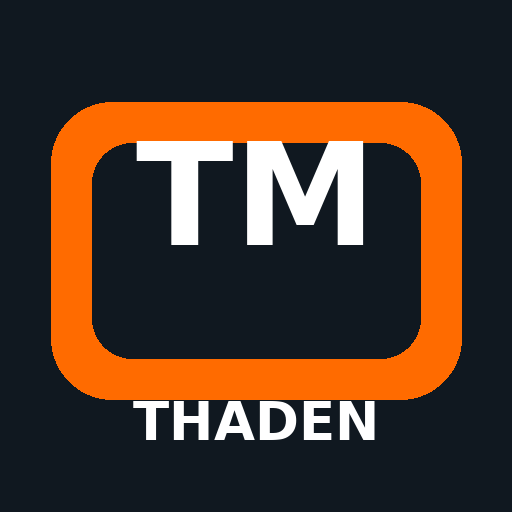
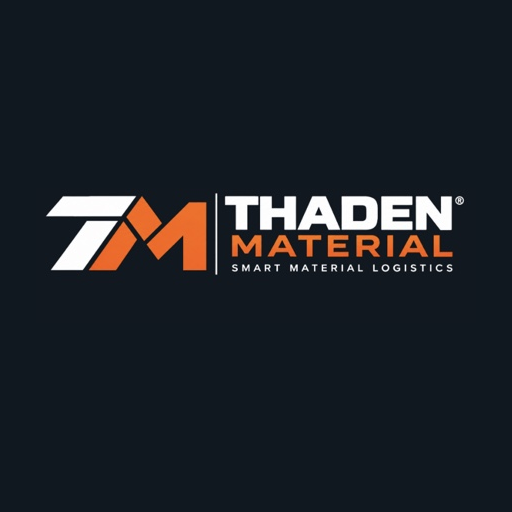
Add files via upload

Changed region(s): [[0.0938, 0.1875, 0.9062, 0.875]]

diff --git a/index.html b/index.html
@@ -4,8 +4,15 @@
 <meta charset="utf-8">
 <meta name="viewport" content="width=device-width,initial-scale=1,viewport-fit=cover">
 <meta name="theme-color" content="#101820">
-<link rel="apple-touch-icon" sizes="180x180" href="./tm-app-icon-180-v70.png">
-<link rel="icon" type="image/png" sizes="192x192" href="./tm-app-icon-192-v70.png">
+<meta name="mobile-web-app-capable" content="yes">
+<meta name="apple-mobile-web-app-capable" content="yes">
+<meta name="apple-mobile-web-app-status-bar-style" content="black-translucent">
+<meta name="apple-mobile-web-app-title" content="THADEN MATERIAL">
+<meta name="application-name" content="THADEN MATERIAL">
+<meta name="msapplication-TileColor" content="#101820">
+<link rel="manifest" href="./manifest.webmanifest">
+<link rel="apple-touch-icon" sizes="180x180" href="./tm-app-icon-180.png">
+<link rel="icon" type="image/png" sizes="192x192" href="./tm-app-icon-192.png">
 <title>THADEN MATERIAL</title>
 <!-- TM MATERIAL V100 – Service-Worker Update-Fix -->
 <style>
@@ -34,6 +41,8 @@ table{width:100%;border-collapse:collapse}th,td{padding:10px;border-bottom:1px s
 .dashboard{display:grid;grid-template-columns:repeat(2,1fr);gap:9px;margin-top:14px}.dash-tile{min-height:88px;border:0;border-radius:18px;padding:16px;color:#fff;text-align:left;box-shadow:0 5px 16px #10203022;position:relative;overflow:hidden}.dash-tile .ico{font-size:22px;display:block;margin-bottom:8px}.dash-tile b{font-size:16px}.dash-tile small{display:block;margin-top:3px;opacity:.88;font-size:11px}.dash-orange{background:linear-gradient(135deg,#ff6b00,#ff8a21)}.dash-dark{background:linear-gradient(135deg,#18232d,#2a3742)}.dash-green{background:linear-gradient(135deg,#149c62,#25b879)}.dash-purple{background:linear-gradient(135deg,#6636d8,#8058e8)}.dash-blue{background:linear-gradient(135deg,#2366c7,#3c83e8)}.dash-gray{background:linear-gradient(135deg,#52606b,#697782)}.quick{display:flex;gap:10px;overflow:auto;padding:4px 1px 6px}.quick button{min-width:145px;text-align:left;background:#fff;border:1px solid #e2e7eb}.home-hero{background:linear-gradient(135deg,#101820,#1d2a35);color:#fff;border-radius:22px;padding:20px;box-shadow:0 7px 22px #10203022}.home-hero h1{font-size:27px;margin:0}.home-hero p{margin:7px 0 0;color:#d5dde3}.section-title{display:flex;justify-content:space-between;align-items:center;margin:18px 2px 9px}.section-title h3{margin:0}.activity{background:#fff;border-radius:16px;padding:4px 15px;box-shadow:0 3px 14px #0000000b}.activity-row{display:flex;gap:11px;align-items:center;padding:13px 0;border-bottom:1px solid #edf0f2}.activity-row:last-child{border-bottom:0}.activity-dot{width:34px;height:34px;border-radius:50%;display:grid;place-items:center;background:#eef3f6}.bottom-nav{position:sticky;bottom:0;z-index:10;background:#101820;color:#fff;margin:18px -11px -11px;padding:8px 6px calc(8px + env(safe-area-inset-bottom));display:grid;grid-template-columns:repeat(5,1fr);box-shadow:0 -4px 15px #0003}.bottom-nav button{background:transparent;color:#dbe2e7;padding:7px 2px;font-size:11px;border-radius:10px}.bottom-nav button.active{background:#202e39;color:#ff7a00}.bottom-nav span{display:block;font-size:20px;line-height:22px;margin-bottom:3px}.feature-list{display:grid;gap:9px}.feature-item{display:flex;justify-content:space-between;align-items:center;background:#fff;border:1px solid #e2e7eb;border-radius:14px;padding:13px}.feature-item .left{display:flex;gap:10px;align-items:center}.feature-icon{width:38px;height:38px;border-radius:10px;background:#eef2f5;display:grid;place-items:center;font-size:20px}.back{margin-bottom:12px}.stat-grid{display:grid;grid-template-columns:repeat(2,1fr);gap:10px}.stat{background:#fff;border-radius:15px;padding:15px;border:1px solid #e2e7eb}.stat b{font-size:24px;display:block}@media(min-width:700px){.dashboard{grid-template-columns:repeat(3,1fr)}.bottom-nav{max-width:980px;margin-left:auto;margin-right:auto;border-radius:18px 18px 0 0}}
 @media(max-width:650px){.wrap{padding:11px}.row{grid-template-columns:1fr}header{padding:13px}.card{padding:16px}}
 @media print{header,.no-print{display:none!important}body{background:#fff}.card{box-shadow:none;border:0}.wrap{max-width:none}}
+/* V128 cross-platform/PWA */
+html{min-height:100%;background:#101820}body{min-height:100%;padding-bottom:env(safe-area-inset-bottom)}button,input,select{touch-action:manipulation}input,select,button{font-family:inherit}@media(min-width:1000px){.wrap{max-width:1100px;padding:24px}.card{padding:22px}.photo-preview,.preview{max-height:420px}}@media(max-width:650px){header{padding-top:max(13px,env(safe-area-inset-top));padding-bottom:13px}.wrap{padding-left:max(11px,env(safe-area-inset-left));padding-right:max(11px,env(safe-area-inset-right))}}
 
 
 .site-overview{display:grid;gap:10px}.site-card{background:#fff;border:1px solid #e0e6ea;border-radius:16px;padding:14px;box-shadow:0 3px 12px #1020300b}.site-card-main{display:flex;gap:12px;align-items:flex-start}.site-badge{width:42px;height:42px;border-radius:12px;background:#eef3f6;color:var(--orange);display:grid;place-items:center;font-size:20px;flex:none}.site-card b{font-size:17px}.site-stock{margin-top:5px;font-size:13px;color:var(--muted)}.site-stock strong{color:var(--text)}.site-card-actions{display:flex;gap:8px;margin-top:12px}.site-card-actions button{flex:1;padding:11px 10px;font-size:14px}.compact-dashboard .dash-tile{min-height:78px;padding:13px}.compact-dashboard .dash-tile .ico{font-size:18px;margin-bottom:5px}.detail-head{display:flex;justify-content:space-between;align-items:flex-start;gap:12px}.stock-summary{display:grid;grid-template-columns:repeat(2,1fr);gap:8px;margin:16px 0}.stock-summary>div{background:#f5f7f8;border-radius:12px;padding:12px}.stock-summary span{display:block;color:var(--muted);font-size:12px}.stock-summary b{display:block;margin-top:4px;font-size:18px}.stock-list{border:1px solid #e1e6ea;border-radius:14px;overflow:hidden}.stock-row{display:flex;justify-content:space-between;gap:10px;padding:13px;border-bottom:1px solid #edf0f2}.stock-row:last-child{border-bottom:0}.stock-row>strong{white-space:nowrap}.duplicate-overlay{position:fixed;inset:0;z-index:240;display:none;align-items:center;justify-content:center;padding:24px;background:rgba(16,24,32,.48);backdrop-filter:blur(3px)}.duplicate-overlay.show{display:flex}.duplicate-card{width:min(92vw,430px);background:#fff;border-radius:24px;padding:26px 22px 22px;text-align:center;box-shadow:0 18px 55px rgba(16,24,32,.3);animation:savePop .22s ease-out}.duplicate-icon{width:68px;height:68px;margin:0 auto 14px;border-radius:50%;background:#fff1ee;color:#c23a2d;display:grid;place-items:center;font-size:34px;font-weight:950;line-height:1;box-shadow:inset 0 0 0 2px #f2c7c0}.duplicate-title{font-size:22px;font-weight:900;color:#16232d;line-height:1.15}.duplicate-message{margin-top:8px;color:#697680;font-size:16px;font-weight:650;line-height:1.4}.duplicate-number{display:block;margin-top:10px;font-size:19px;font-weight:900;letter-spacing:.3px;color:#c23a2d}.duplicate-close{margin-top:18px;width:100%;padding:13px 16px;border:0;border-radius:14px;background:#ff6b00;color:#fff;font-size:16px;font-weight:850}.toast{position:fixed;inset:0;z-index:200;display:none;align-items:center;justify-content:center;padding:24px;background:rgba(16,24,32,.48);backdrop-filter:blur(3px)}.toast.show{display:flex}.toast-card{width:min(92vw,420px);background:#fff;border-radius:24px;padding:28px 22px 24px;text-align:center;box-shadow:0 18px 55px rgba(16,24,32,.28);animation:savePop .22s ease-out}.toast-check{width:72px;height:72px;margin:0 auto 14px;border-radius:50%;background:#e8f7ef;color:#159b60;display:grid;place-items:center;font-size:42px;font-weight:950;line-height:1;box-shadow:inset 0 0 0 2px #b9e4cb}.toast-title{font-size:22px;font-weight:900;color:#16232d;line-height:1.15}.toast-message{margin-top:7px;color:#697680;font-size:16px;font-weight:650;line-height:1.35}.toast-action{margin-top:18px;font-size:13px;color:#159b60;font-weight:850}@keyframes savePop{from{opacity:0;transform:scale(.92)}to{opacity:1;transform:scale(1)}}.success{background:#e8f7ef;color:#087044;border:1px solid #b9e4cb;border-radius:12px;padding:12px 14px;font-weight:750}.save-confirm-inline{display:none;background:#e8f7ef;color:#087044;border:1px solid #b9e4cb;border-radius:14px;padding:14px 16px;margin-top:12px;font-weight:850;text-align:center}.save-confirm-inline.show{display:block;animation:savePop .22s ease-out}.summary-actions.is-saved{opacity:.9}.summary-actions.is-saved .green{background:#159b60;pointer-events:none}@media(max-width:650px){.detail-head{display:block}.detail-head .primary{width:100%;margin-top:10px}.stock-summary{grid-template-columns:1fr 1fr}}
@@ -432,7 +441,7 @@ body{background:#f3f5f7}
 <script>
 if ('serviceWorker' in navigator){
   window.addEventListener('load',()=>{
-    navigator.serviceWorker.register('./sw.js?v=100',{updateViaCache:'none'}).then(reg=>{try{reg.update()}catch(e){}}).catch(()=>{});
+    navigator.serviceWorker.register('./sw.js?v=129',{updateViaCache:'none'}).then(reg=>{try{reg.update()}catch(e){}}).catch(()=>{});
     navigator.serviceWorker.addEventListener('controllerchange',()=>{
       if(!sessionStorage.getItem('mm_sw_reloaded_v100')){
         sessionStorage.setItem('mm_sw_reloaded_v100','1');

diff --git a/sw.js b/sw.js
@@ -1,5 +1,5 @@
-const CACHE='tm-material-v117';
-const ASSETS=['./','./index.html'];
+const CACHE='tm-material-v130';
+const ASSETS=['./','./index.html','./manifest.webmanifest','./tm-app-icon-180.png','./tm-app-icon-192.png','./tm-app-icon-512.png'];
 self.addEventListener('install',e=>e.waitUntil(caches.open(CACHE).then(c=>c.addAll(ASSETS)).then(()=>self.skipWaiting())));
 self.addEventListener('activate',e=>e.waitUntil(caches.keys().then(keys=>Promise.all(keys.filter(k=>k!==CACHE).map(k=>caches.delete(k)))).then(()=>self.clients.claim())));
 self.addEventListener('fetch',e=>{ if(e.request.method!=='GET') return; if(e.request.mode==='navigate'){e.respondWith(fetch(e.request).then(r=>{const copy=r.clone(); caches.open(CACHE).then(c=>c.put('./index.html',copy)); return r}).catch(()=>caches.match('./index.html'))); return;} e.respondWith(fetch(e.request).then(r=>{if(r.ok){const copy=r.clone(); caches.open(CACHE).then(c=>c.put(e.request,copy));} return r}).catch(()=>caches.match(e.request))); });
